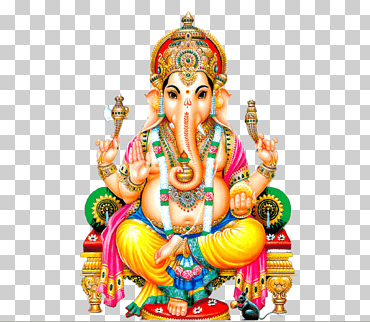
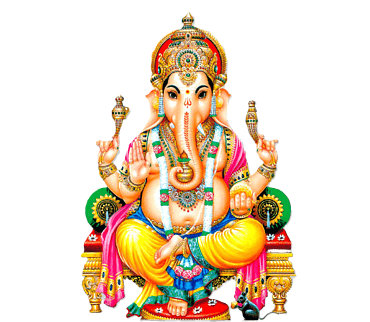
transparent the background

diff --git a/src/components/Player.js b/src/components/Player.js
@@ -1,8 +1,8 @@
 import React from 'react'
 import ganesharti from '../music/ganeshArti.mp3'
+import ganesh from '../images/ganesh.png'
 
 export default function Player() {
-   let img='https://c0.klipartz.com/pngpicture/314/305/gratis-png-senor-ganesha-shiva-ganesha-parvati-deidad-ganesh-thumbnail.png'
   let play=true;
    const handleplay=()=>{
     if(play===true){
@@ -18,7 +18,7 @@ export default function Player() {
    }
   return (
     <div className='Player'>
-      <div className="bg" style={{backgroundImage:`url(${img})`,height:'100vh',width:'100%'}}>
+      <div className="bg" style={{backgroundImage:`url(${ganesh})`,height:'100vh',width:'100%'}}>
     
       </div>
       <div className="icon">
